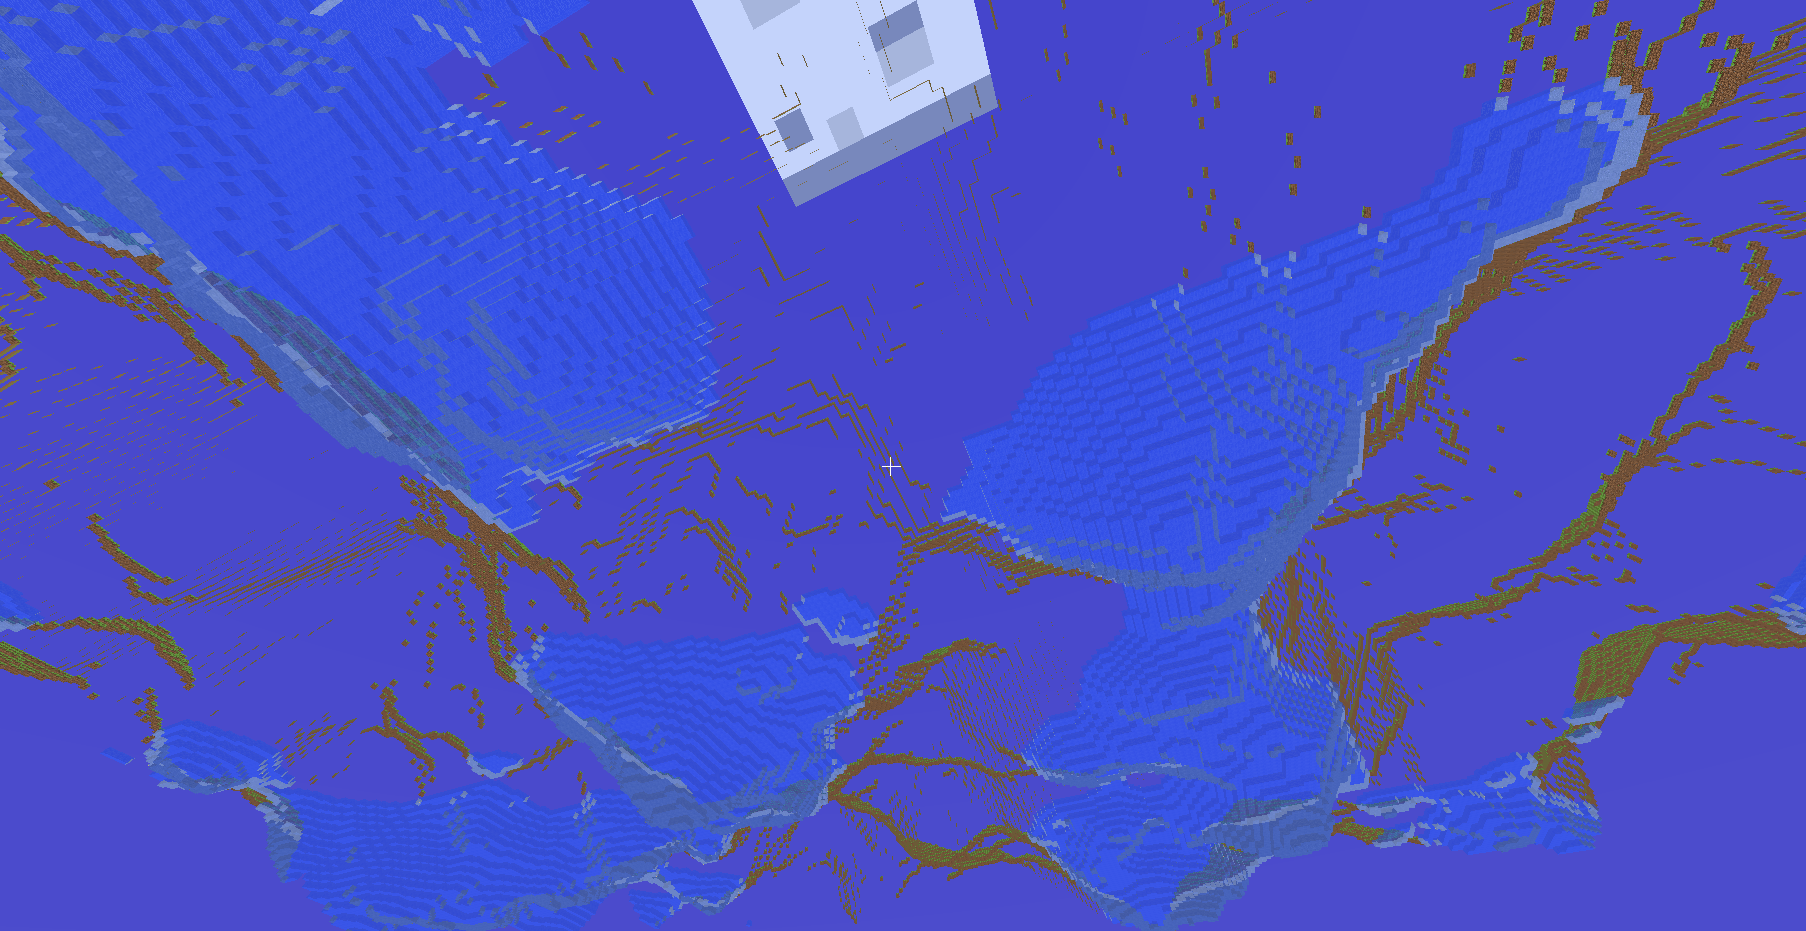
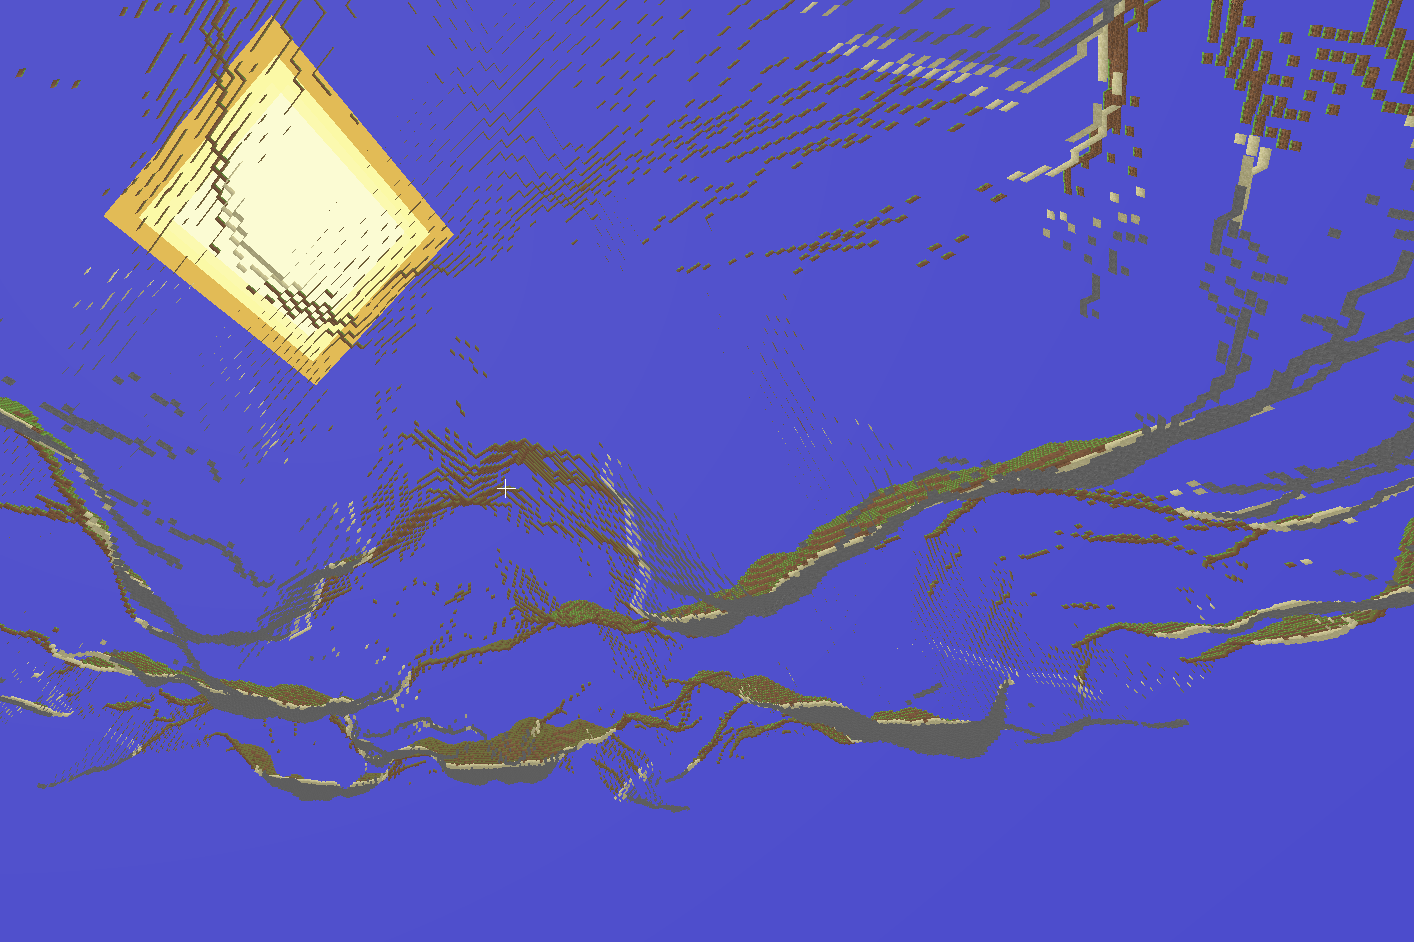
Update README.md

diff --git a/README.md b/README.md
@@ -11,6 +11,8 @@ software that I used to make this.
 
 - Building and destroying blocks
 ![Building and destroying blocks](./screenshots/building.png)
+- Ambient Occlusion
+![Building and destroying blocks](./screenshots/ambient-occlusion.png)
 - Procedural world generation
 ![Procedural world generation](./screenshots/procedural-world-generation.png)
 - Semi-transparent blocks
@@ -62,7 +64,7 @@ software that I used to make this.
     - The chunks are hollow on the inside, so most of the blocks that are not visible are not sent to the GPU.
     - Each vertex in a chunk is only 4 bytes long to make the game as memory-efficient as possible (on the GPU side).
     - The game has animated textures and an animated skybox.
-    - The game supports semi-transparent textures, the chunk meshes are sorted before drawing.
+    - The game supports semi-transparent textures, ambient occlusion and the chunk meshes are sorted before drawing.
 - Gameplay
   - 
     - The game has very basic, minecraft-like physics, with two movement modes:
@@ -71,6 +73,17 @@ software that I used to make this.
     - The game has block placing, block picking and block breaking. - *maybe the most essential feature*
     - Implemented a basic UI to change the active block, load saves, and load custom textures for the world.
     - The world is generated procedurally using a seed, and loaded dynamically as the player moves across it.
+
+- Controls
+  -
+    - `Left Click` to break a block
+    - `Middle Click` to pick a block
+    - `Right Click` to place a block
+    - `WASD`  to move around
+    - `Shift` to descend when physics is off
+    - `Space` to ascend when physics is off, or jump when physics is on
+    - `Ctrl` to go faster
+    - `Esc` to open the menu
 
 ## Libraries that I used
 
